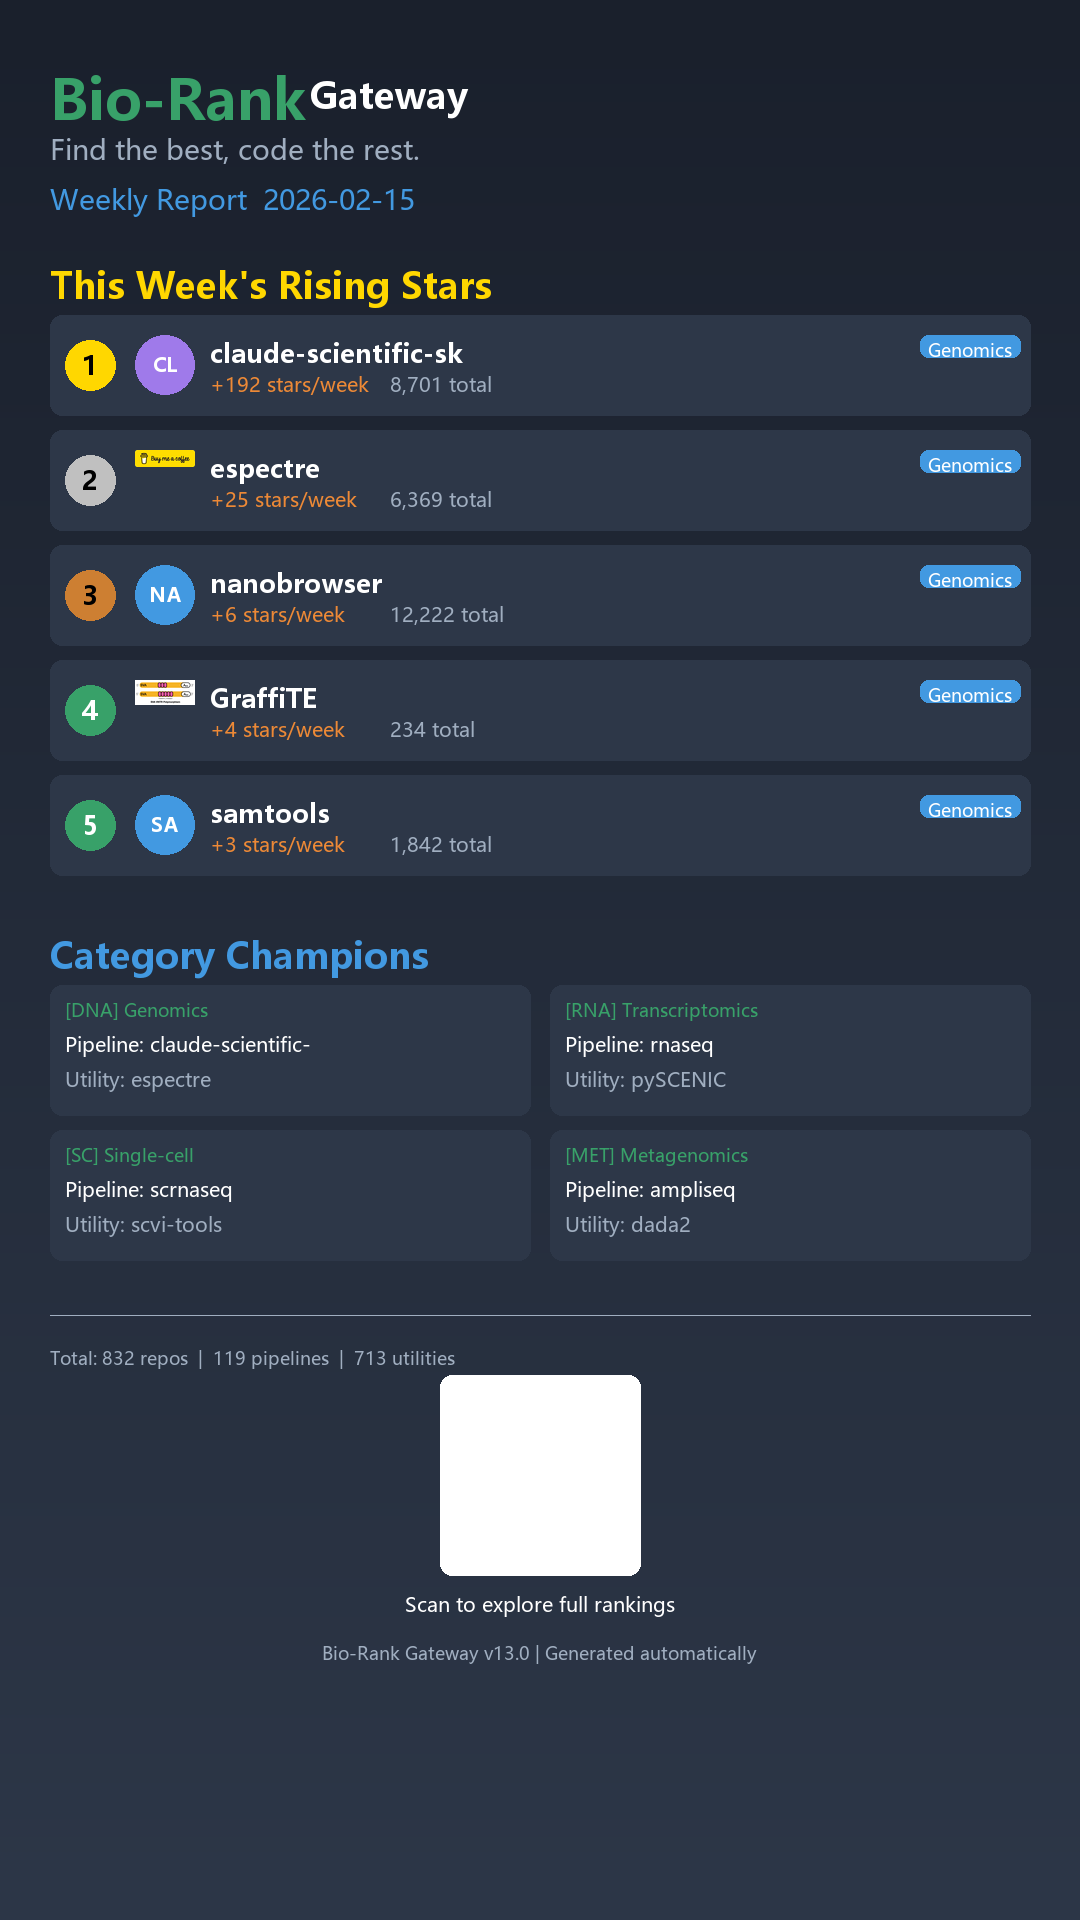
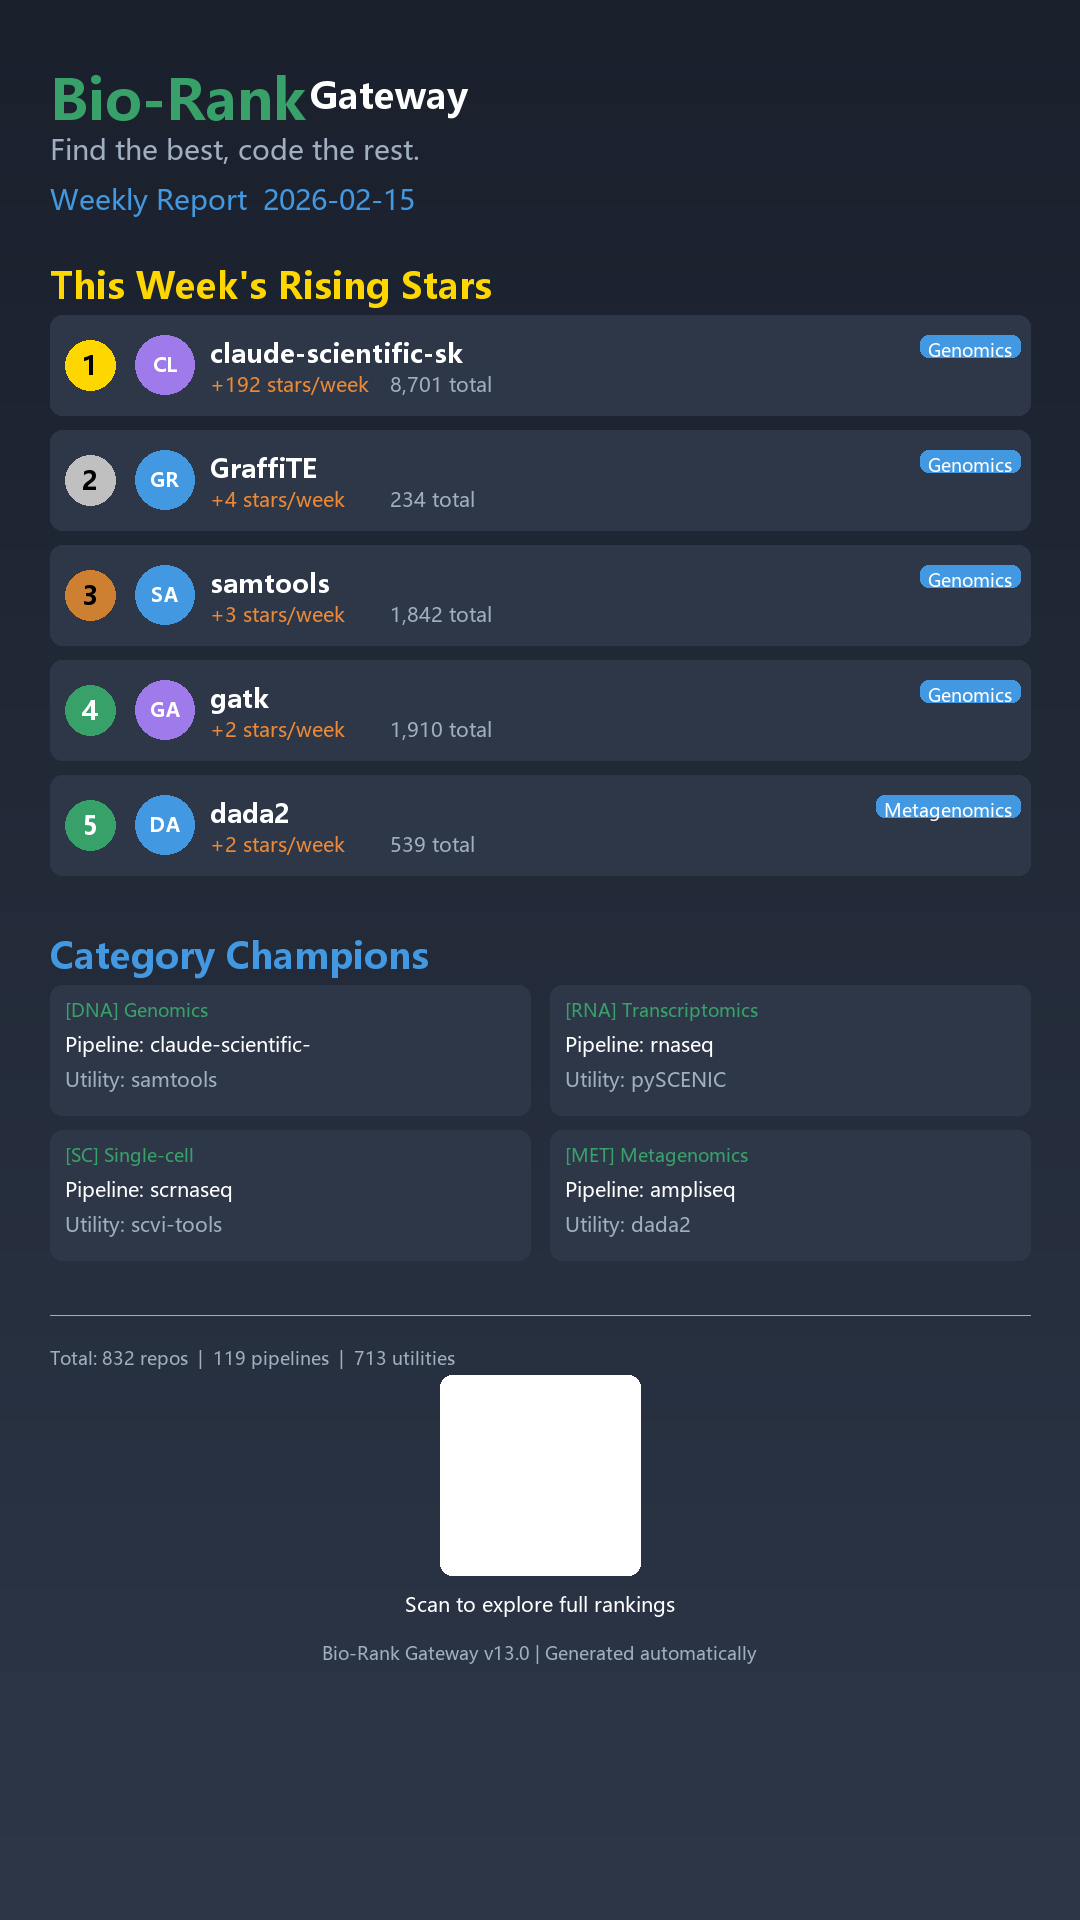
fix: Add espectre and nanobrowser to blacklist
- Add FORCE_EXCLUDE_REPOS list for precise repo filtering
- Add nanobrowser to NON_BIO_BLACKLIST keywords
- Update is_non_bio_project() to check force exclude list first
- Remove espectre and nanobrowser from ranking data (4 items)
- Regenerate weekly report poster

🤖 Generated with [Qoder][https://qoder.com]

diff --git a/scripts/bio_rank_gateway.py b/scripts/bio_rank_gateway.py
@@ -117,11 +117,53 @@ EXCLUDE_KEYWORDS = ["notes", "exercise", "homework", "tutorial", "learning", "co
 
 # 通用编程项目黑名单关键词（非生信工具）
 NON_BIO_BLACKLIST = [
-    "wasmedge", "dapr", "espectre", "runtime", "orchestration", "kubernetes", "k8s",
+    "wasmedge", "dapr", "espectre", "nanobrowser", "runtime", "orchestration", "kubernetes", "k8s",
     "service mesh", "microservice", "serverless", "cloud native", "devops",
     "web framework", "frontend", "backend", "react", "vue", "angular",
     "game engine", "blockchain", "cryptocurrency", "machine learning platform",
-    "deep learning framework", "chatbot", "llm", "large language model"
+    "deep learning framework", "chatbot", "llm", "large language model",
+    "browser automation", "web scraping", "web agent", "browser agent"
+]
+
+# 强制排除的仓库（精确匹配 full_name，不区分大小写）
+FORCE_EXCLUDE_REPOS = [
+    # 浏览器自动化/AI Agent工具
+    "nicepkg/espectre",
+    "nicepkg/nanobrowser",
+    "nicepkg/vmail",
+    "nicepkg/gpt-runner",
+    "nicepkg/aide",
+    "nicepkg/nice-mcp",
+    "nicepkg/browser-use",
+    "nicepkg/browser-ai",
+    "nicepkg/browser-agent",
+    "nicepkg/web-agent",
+    "nicepkg/ai-agent",
+    "nicepkg/llm-agent",
+    "nicepkg/mcp-agent",
+    "nicepkg/coder-agent",
+    "nicepkg/qoder",
+    "nicepkg/qoder-agent",
+    "nicepkg/llm-browser",
+    "nicepkg/ai-browser",
+    "nicepkg/browser-automation",
+    "nicepkg/web-automation",
+    "nicepkg/agentic-browser",
+    "nicepkg/ai-web-agent",
+    "nicepkg/agent-browser",
+    "nicepkg/automation-browser",
+    "nicepkg/agentic-web",
+    "nicepkg/automation-agent",
+    "nicepkg/agent-automation",
+    "nicepkg/llm-automation",
+    # 其他非生信工具
+    "nicepkg/mcp",
+    "nicepkg/ts",
+    "nicepkg/go",
+    "nicepkg/rust",
+    "orama/orama",
+    "WasmEdge/WasmEdge",
+    "dapr/dapr",
 ]
 
 # ============================================================
@@ -316,10 +358,24 @@ def is_non_bio_project(repo: dict) -> bool:
     """基于权重评分机制检测是否为非生信项目
     
     判定标准：
+    0. 强制排除列表中的仓库直接排除
     1. Bio-Score > Tech-Score 且 Bio-Score >= BIO_SCORE_THRESHOLD 时通过
     2. 含大量 IT 词汇但完全无组学核心词 -> 强制排除
     3. topics 含 search/database/engine 且无生物学标签 -> 直接剔除
     """
+    full_name = (repo.get("full_name") or "").lower()
+    
+    # 规则 0：强制排除列表
+    force_exclude_lower = [r.lower() for r in FORCE_EXCLUDE_REPOS]
+    if full_name in force_exclude_lower:
+        return True
+    
+    # 检查仓库名是否包含黑名单关键词
+    repo_name = full_name.split("/")[-1] if "/" in full_name else full_name
+    for blacklist_term in NON_BIO_BLACKLIST:
+        if blacklist_term in repo_name:
+            return True
+    
     description = (repo.get("description") or "").lower()
     raw_topics = repo.get("topics", [])
     if isinstance(raw_topics, str):
@@ -328,7 +384,6 @@ def is_non_bio_project(repo: dict) -> bool:
         except (json.JSONDecodeError, TypeError):
             raw_topics = []
     topics = [t.lower() for t in raw_topics]
-    full_name = (repo.get("full_name") or "").lower()
     full_text = f"{description} {' '.join(topics)} {full_name}"
     
     # 规则 1：权重评分
